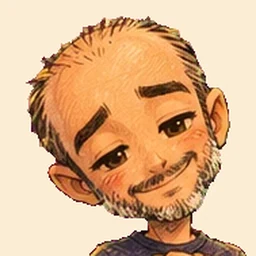
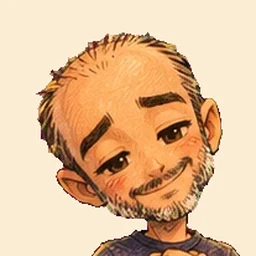
posefaces1b: Tom's faces re-cut from his newest save
Claude-Session: https://claude.ai/code/session_01RXeukG5iYzzcD8tJSBuQvJ

diff --git a/engine/emotions.js b/engine/emotions.js
@@ -23,7 +23,7 @@ function emoPreload(id) {
   for(const m of EMOTIONS_LIST) new Image().src='portraits/emo/'+id+'-'+m+'.webp?v='+EMO_V;
 }
 const TALKPOSE_V='tpface1';
-const EMOTIONS_LIST=["happy","loving","sad","angry","scared","surprised","proud","unimpressed"],EMO_V='posefaces1';
+const EMOTIONS_LIST=["happy","loving","sad","angry","scared","surprised","proud","unimpressed"],EMO_V='posefaces1b';
 function emoActorFor(id,name,npc) {
   const pm=typeof playerMember==='function'?playerMember():null;
   if(pm&&pm.id===id) return typeof roseRider==='function'&&roseRider()?null:player;   // Tom carrying Rose keeps the ride picture

diff --git a/docs/CHANGES.md b/docs/CHANGES.md
@@ -1,3 +1,6 @@
+## posefaces1b (2026-11-14): Tom's faces re-cut from his 22:13 save
+
+Three of Tom's feelings faces (happy, loving, unimpressed) re-cut with the lines he moved after posefaces1 was baked. No other change.
 ## posefaces1 (2026-11-14): Dialogue faces are now framed by the Pose Editor lines; saved portrait crops deleted
 
 Tom (2026-11-14 22:08): "Delete all portrait crop that are saved and default every portrait crop no matter what the pose, whether it is walk, talk, or feelings based on the red line for the head top of the head and the green line for the bottom of the chin for every character to center them exactly in the same way based on that, so basically we just need like a fixed position for where in the portrait the top of a character's head goes and the bottom of the character's head goes, which maybe is like a master setting in the portrait cropper tool, but then once I set them for each pose in the pose editor, it'll automatically make sure that all of the portraits look correct".
